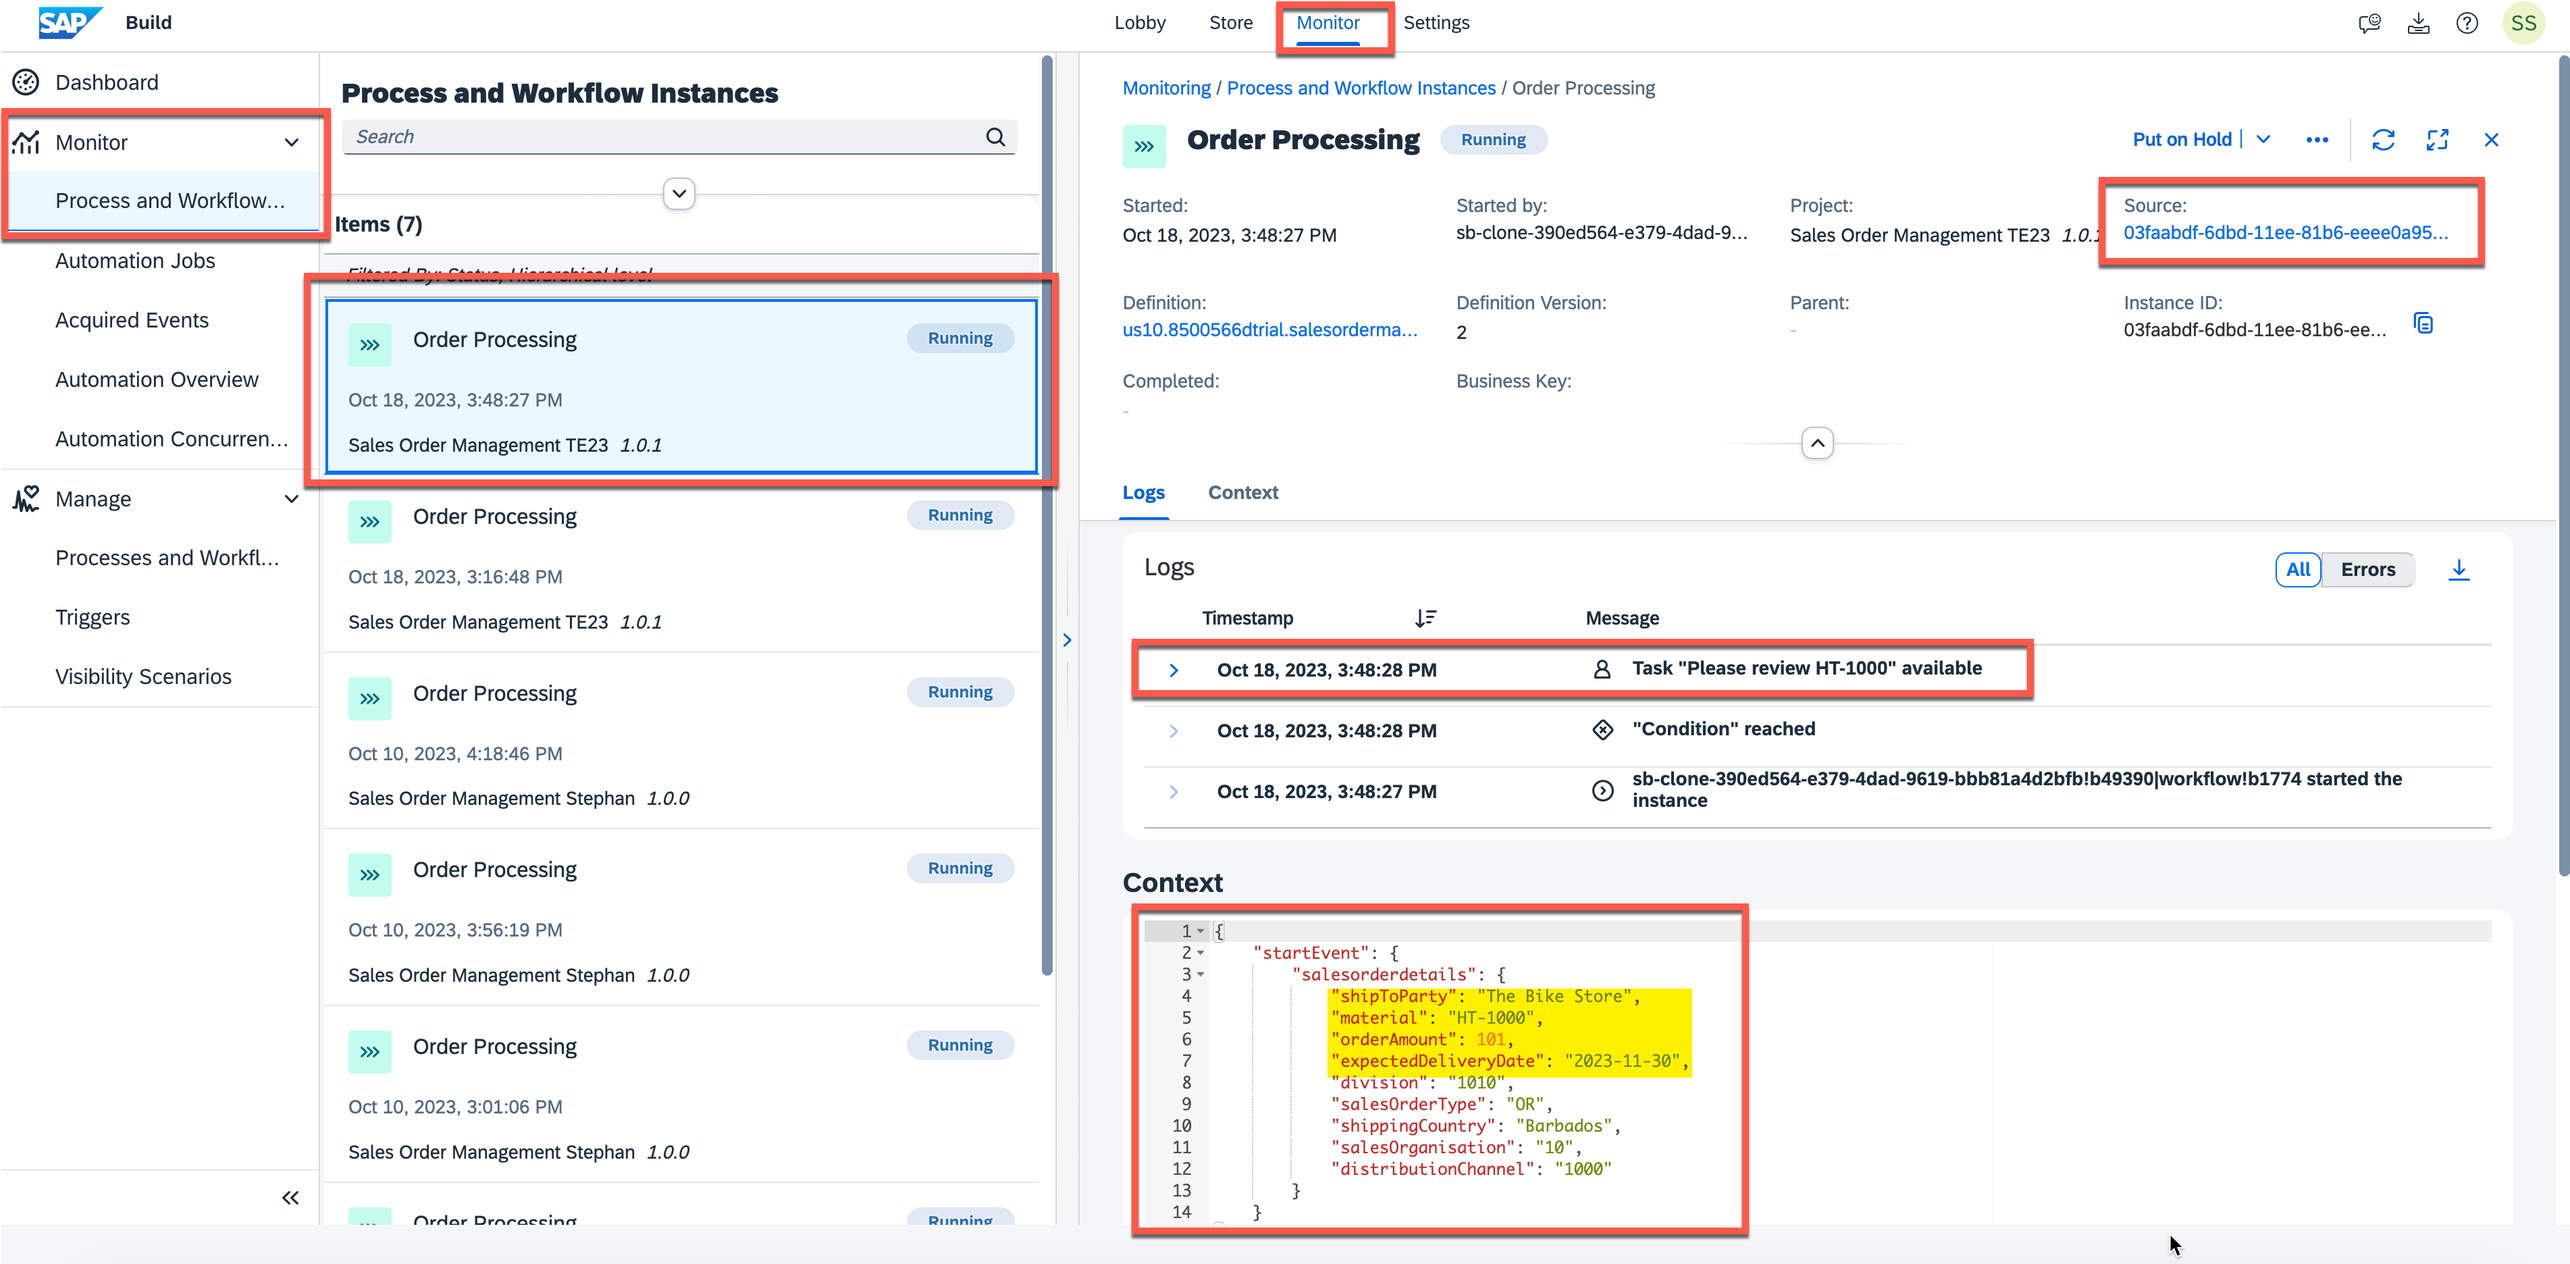
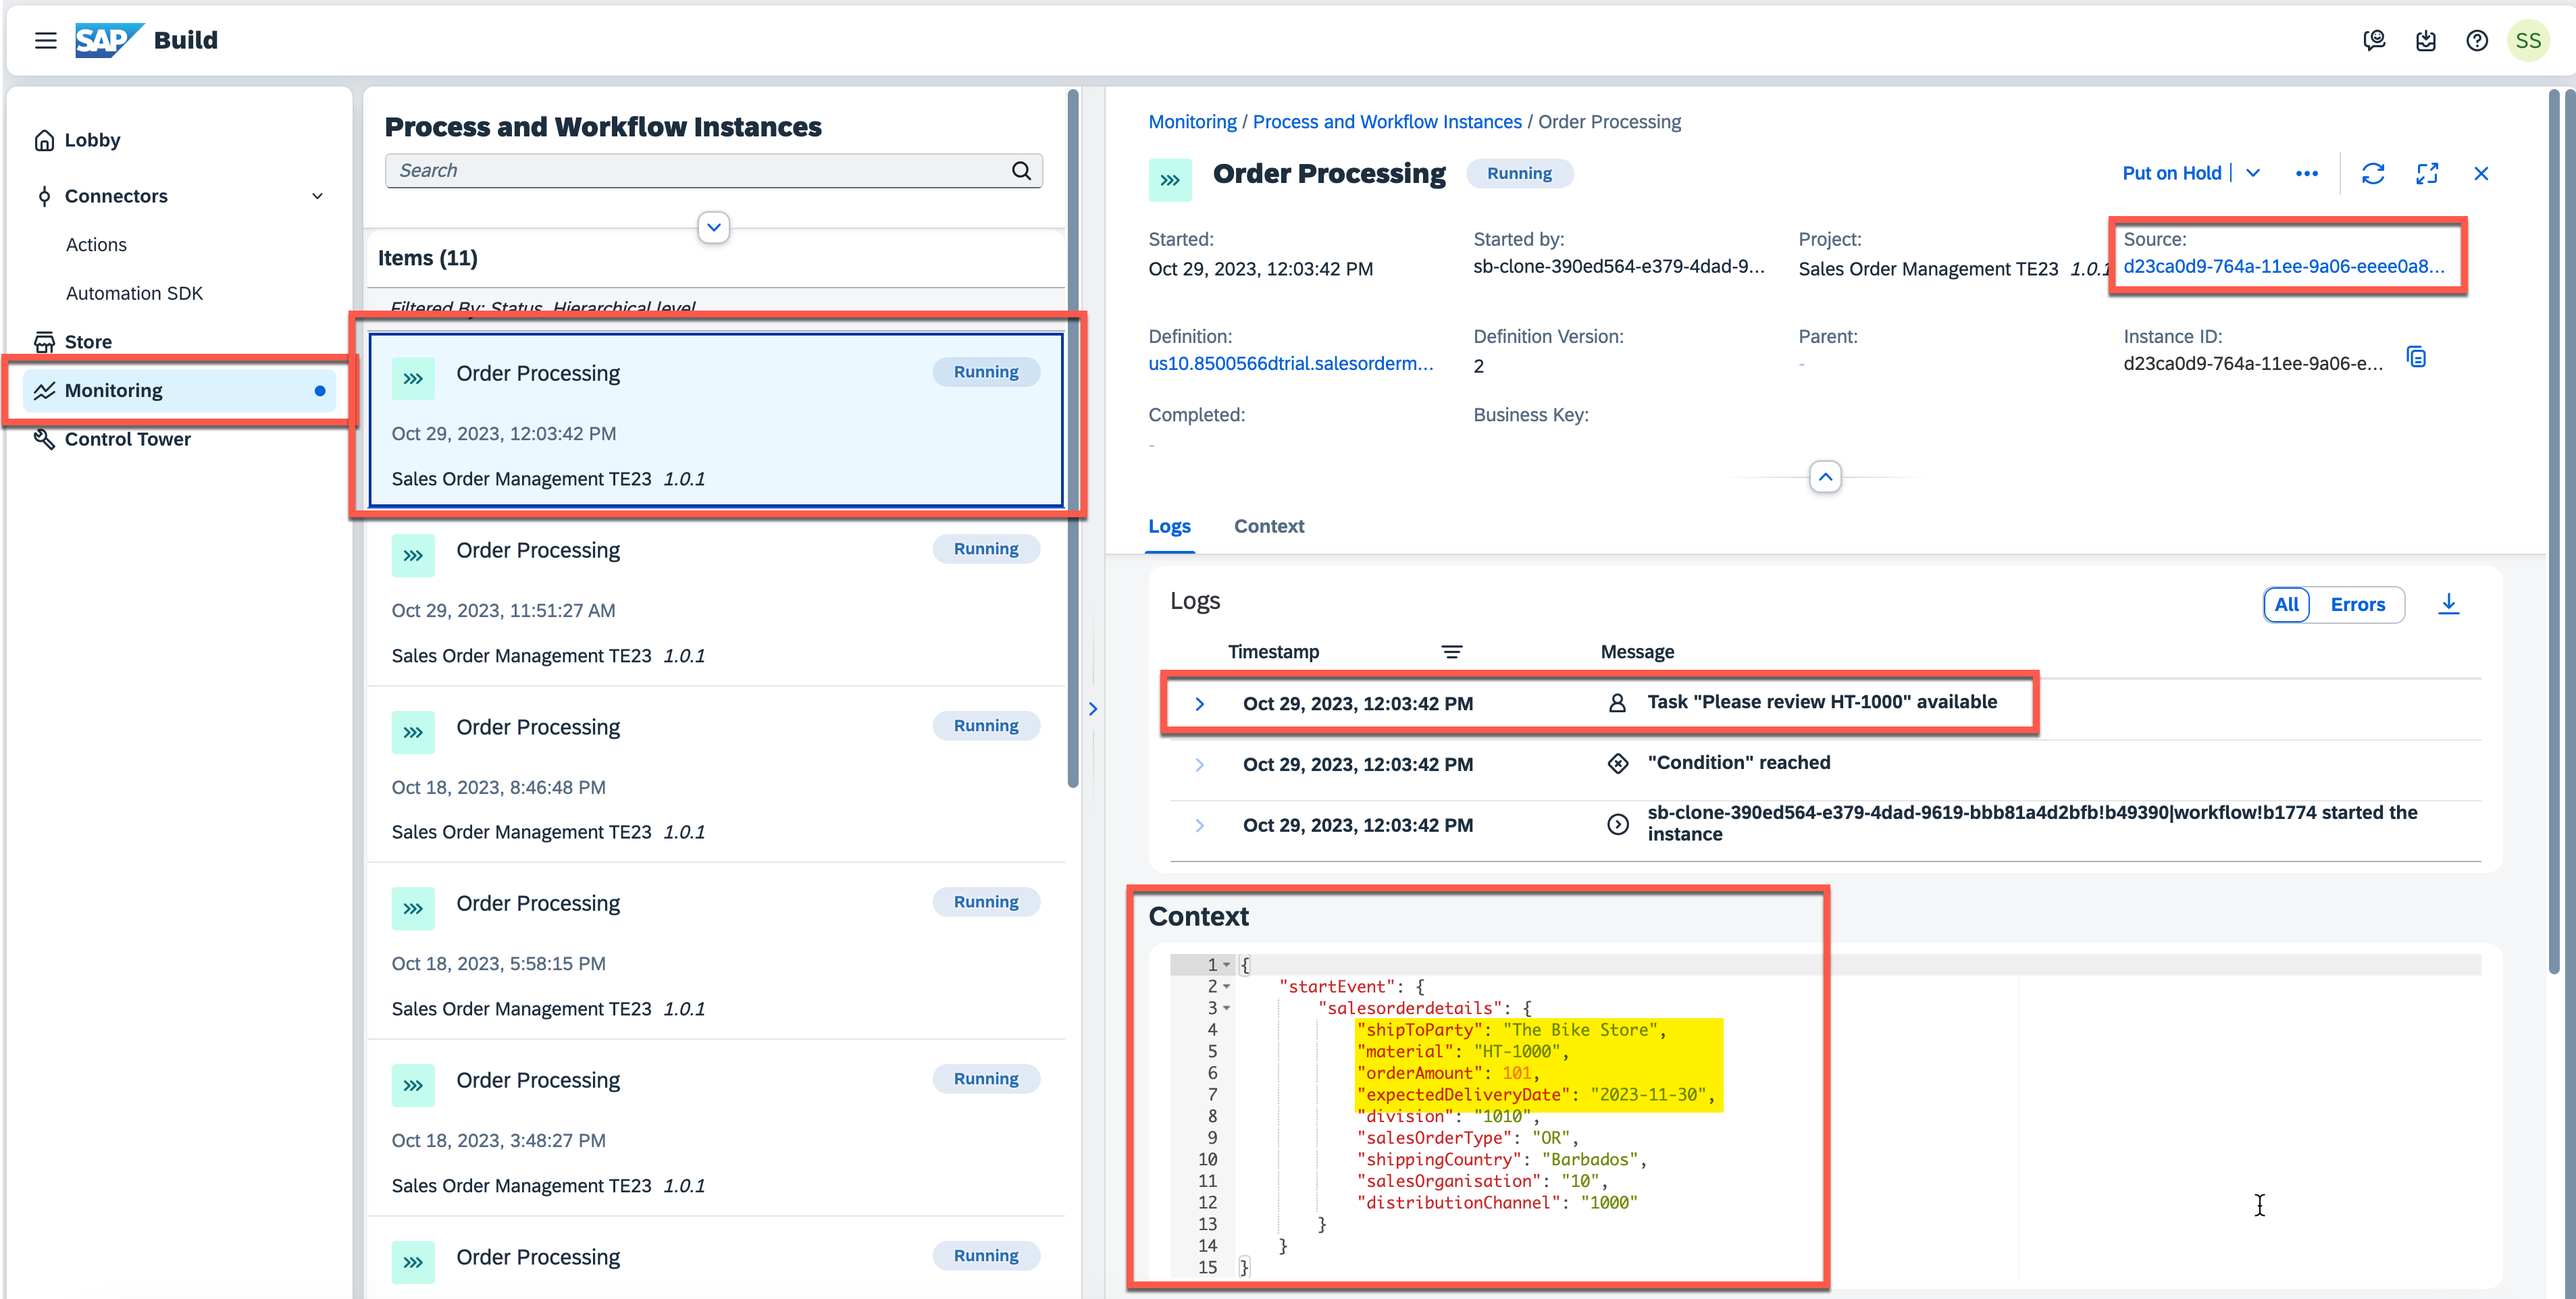
final

diff --git a/exercises/2_Build_Apps/2_build-apps-workflow-trigger/build-apps-workflow-trigger.md b/exercises/2_Build_Apps/2_build-apps-workflow-trigger/build-apps-workflow-trigger.md
@@ -1,5 +1,5 @@
 
-# Create SAP Build App to Trigger Process
+# Create app in SAP Build App to trigger Process
 <!-- description --> Trigger a process created in SAP Build Process Automation from an app created with SAP build Apps.
 
 ## Prerequisites
@@ -206,9 +206,7 @@ Skip **Option 2** and move on with **[Enable SAP BTP authentication](#Enable-SAP
 
 ### Option 2 - Import Project
 
-We really want you to see some of things related to stylizing you can do with SAP Build Apps. But we understand that stylizing a UI may be tedious for some people.
-
-If you really want, you can skip doing the stylizing and instead import the project already stylized. If you want to take this route, do the following:
+You can skip doing the stylizing and instead import the project already stylized. If you want to take this route, do the following:
 
 1. Download the file [`Sales-Order-Trigger.zip.gpg`](https://github.com/sap-tutorials/sap-build-apps/raw/main/tutorials/build-apps-workflow-trigger/Sales-Order-Trigger.zip.gpg).
 
@@ -354,7 +352,7 @@ Now you will set up the connection from your app to that destination, so you can
 
 
 ### Test the trigger
-SAP Build App enables you to test whether your connection works. Here, we will trigger the workflow manually.
+SAP Build App enables you to test whether your connection works. Here, we will trigger the process manually.
 
 1. Open the data resource again by clicking it.
    
@@ -409,7 +407,7 @@ If all works OK, you will get a **201** status code and a response with informat
 >
 >**500:** This may mean that your URLs are wrong, especially, you may have the wrong URL for OAuth authentication, such as you forget to add the path `/oauth/token`.
 >
->Note that field names are case sensitive. This will not cause an error in the API call, but the values will not be passed to the workflow properly and you will not see the values in the workflow forms.
+>Note that field names are case sensitive. This will not cause an error in the API call, but the values will not be passed to the process properly and you will not see the values in the process forms.
 
 If you've gotten to here, your integration with SAP Build Process Automation is working!!
 
@@ -423,7 +421,7 @@ Select the newly started process and inspect the logs and the context.
 
 ![Process automation test](test-spa1.png)
 
-You can also check the Inbox to see the forms were created and the values properly passed into the workflow. 
+You can also check the Inbox to see the forms were created and the values properly passed into the process. 
 >In case an error message is coming up, please ignore and try again.
 
 ![Inbox](test-inbox.png)
@@ -434,15 +432,15 @@ In any event, you can close your data resource definition by clicking **Save Dat
 
 
 ### Create data variable
-Whenever we want to trigger a workflow, we need to send some data – in this case, the sales order information.
+Whenever we want to trigger a process, we need to send some data – in this case, the sales order information.
 
-So we will create a variable that will hold the information. A data variable is based on a specific data resource -- in this case the one to trigger our workflow -- and the variable's schema is automatically duplicated from the data resource.
+So we will create a variable that will hold the information. A data variable is based on a specific data resource -- in this case the one to trigger our process -- and the variable's schema is automatically duplicated from the data resource.
 
 1. Back on the UI canvas (click the **UI Canvas** tab at the top), select **Variables**.
 
 2. On the left, click **Data Variables**.
    
-3. Click **Add Data Variable**, and choose **Trigger Workflow** as the data resource on which to base the data variable.
+3. Click **Add Data Variable**, and choose **Trigger Process** as the data resource on which to base the data variable.
 
     >The schema of the data variable will be the same as the data resource.
 
@@ -603,13 +601,13 @@ We need to set up the logic so when someone clicks the **Get Approval** button (
 
 Your process should be triggered and require approval (since the amount above 100).
 
-You should see the toast message indicating the workflow was triggered, and with the process instance ID.
+You should see the toast message indicating the process was triggered, and with the process instance ID.
 
 ![Preview toast](launch-toast.png)
 
 You can also see the results of the call in SAP Build Process Automation.
 
-Go to the **Monitor** tab, then **Monitor > Process and Workflow Instances**. The first one should be the one you just triggered.
+Go to the **Monitoring** tab, then **Monitor > Process and Workflow Instances**. The first one should be the one you just triggered.
 
 - You can see the new process instance.
 - You can see the process ID is the same as in the toast message in the app.

diff --git a/exercises/2_Build_Apps/3_build-apps-deploy/build-apps-deply.md b/exercises/2_Build_Apps/3_build-apps-deploy/build-apps-deply.md
@@ -14,8 +14,6 @@
 ## Intro
 After creating an app in SAP Build Apps, and after viewing the preview on the web, you can deploy it directly to SAP BTP, like any other HTML5 application.
 
-As of the writing of this exercise, you could only deploy to an Cloud Foundry org's default space.
-
 >**IMPORTANT:** You need to be a member of the Cloud Foundry org and space to which you will be deploying to. Which you normally are.
 
 >As you are an admin of the SAP BTP trial subaccount, you can see who is an org member by going to the cockpit and navigating to **Cloud Foundry > Org Members**.
@@ -64,7 +62,7 @@ Before deploying, you must have a build showing as `delivered`.
 
     ![Authorize](deploy2.png)
 
-    >If you have rights to Cloud Foundry on more than 1 BTP tenant, you will need to choose the environment. Otherwise, the environment will automatically be chosen. 
+    >Use the automatically chosen endpoint. If you have rights to Cloud Foundry on more than 1 BTP tenant, you will need to choose the environment. Otherwise, the environment will automatically be chosen. 
 
 2. Click **Authorize BTP Deployments**.
 

diff --git a/README.md b/README.md
@@ -42,7 +42,7 @@ Please **follow the steps for each product**, as described in the following exer
   
 - **Exercise 2 - Create a Sales Order App with SAP Build Apps**
     - [Exercise 2.1 - Create Destination to Trigger Process from any Service](exercises/2_Build_Apps/1_spa-create-service-instance-destination/spa-create-service-instance-destination.md)
-    - [Exercise 2.2 - Create SAP Build App to Trigger Process](exercises/2_Build_Apps/2_build-apps-workflow-trigger/build-apps-workflow-trigger.md)
+    - [Exercise 2.2 - Create an app in SAP Build App to trigger Process](exercises/2_Build_Apps/2_build-apps-workflow-trigger/build-apps-workflow-trigger.md)
     - [Exercise 2.3 - Deploy SAP Build App to SAP BTP](exercises/2_Build_Apps/3_build-apps-deploy/build-apps-deply.md)
   
 - **Exercise 3 - Create a Business Site with SAP Build Work Zone, standard edition**

diff --git a/exercises/2_Build_Apps/README.md b/exercises/2_Build_Apps/README.md
@@ -1,6 +1,6 @@
 # Exercise 2 - Create a Sales Order App with SAP Build Apps
 - [Exercise 2.1 - Create Destination to Trigger Process from any Service](/exercises/2_Build_Apps/1_spa-create-service-instance-destination/spa-create-service-instance-destination.md)
-- [Exercise 2.2 - Create SAP Build App to Trigger Process](/exercises/2_Build_Apps/2_build-apps-workflow-trigger/build-apps-workflow-trigger.md)
+- [Exercise 2.2 - Create an app in SAP Build App to trigger Process](/exercises/2_Build_Apps/2_build-apps-workflow-trigger/build-apps-workflow-trigger.md)
 - [Exercise 2.3 - Deploy SAP Build App to SAP BTP](/exercises/2_Build_Apps/3_build-apps-deploy/build-apps-deply.md)
 
 Move on to Exercise 3: [Create a Business Site with SAP Build Work Zone, standard edition](/exercises/3_Build_Work_Zone/README.md)

diff --git a/exercises/2_Build_Apps/1_spa-create-service-instance-destination/spa-create-service-instance-destination.md b/exercises/2_Build_Apps/1_spa-create-service-instance-destination/spa-create-service-instance-destination.md
@@ -114,4 +114,4 @@ When you will check the connection to the destination, the status will show **40
 
 ### Next Step
 
-Now it's time to [Create SAP Build App to Trigger Process](/exercises/2_Build_Apps/2_build-apps-workflow-trigger/build-apps-workflow-trigger.md)
+Now it's time to [Create an app in SAP Build App to trigger Process](/exercises/2_Build_Apps/2_build-apps-workflow-trigger/build-apps-workflow-trigger.md)

diff --git a/exercises/3_Build_Work_Zone/3_spa-configure-workzone/AddMyInboxWZ.md b/exercises/3_Build_Work_Zone/3_spa-configure-workzone/AddMyInboxWZ.md
@@ -135,7 +135,7 @@ You should receive this response message "401: Unauthorized"
 
   ![SBWSE](034.png)
 
-6.  Select **Everyone** item to edit it. Select **Edit** to edit role.
+6.  Go back to **Content Manager** and select **Everyone** item to edit it. Select **Edit** to edit role.
 
   ![SBWSE](042.png)
 
